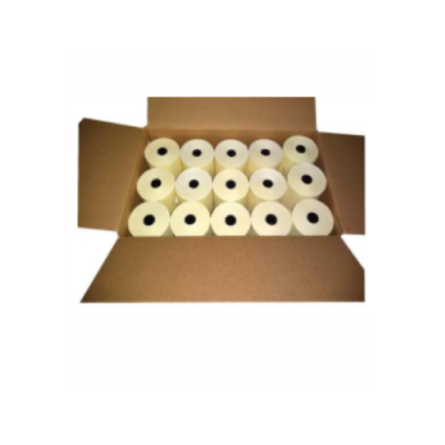
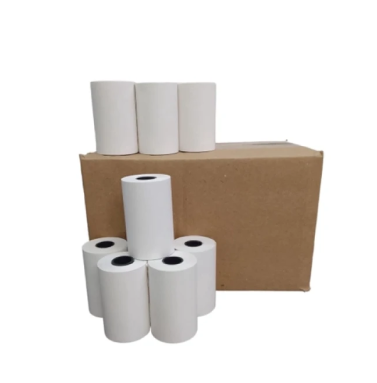
trocando as imagens das bobinas e mexendo no css dos cards

diff --git a/saiba-mais/produtos/bobina-termica.html b/saiba-mais/produtos/bobina-termica.html
@@ -35,7 +35,7 @@
             <h2 id="sistema">Bobina Térmica</h2>
             <div id="servico">
                 <div class="img">
-                    <img src="/images/bobina-termica.png" alt="" id="imagem-sistema">
+                    <img src="/images/bobina-termica-prod.png" alt="" id="imagem-sistema">
                 </div>
                 <div id="produto">
                     <p>Lorem ipsum dolor sit amet consectetur adipisicing elit. Rem alias esse dolor nisi? Totam itaque dolores, optio distinctio eveniet recusandae placeat officiis provident quam corporis quasi! Maxime suscipit dolorem alias voluptatem. Adipisci autem labore voluptas corporis! Autem, numquam id animi laborum, dicta repellendus molestiae temporibus accusantium dignissimos eveniet corporis fugit eos fuga, voluptate rem delectus.</p>

diff --git a/css/main.css b/css/main.css
@@ -99,7 +99,7 @@ button a {
     width: 90%;
     display: flex;
     flex-direction: column;
-    justify-content: center;            
+    justify-content: space-between;            
     border-radius: 5px;
     box-shadow: rgba(0, 0, 0, 0.35) 0px 2px 8px;
     text-align: center;
@@ -110,7 +110,7 @@ button a {
     height: 500px;
     display: flex;
     flex-direction: column;
-    justify-content: center;            
+    justify-content: space-between;            
     border-radius: 5px;
     box-shadow: rgba(0, 0, 0, 0.35) 0px 2px 8px;
     text-align: center;
